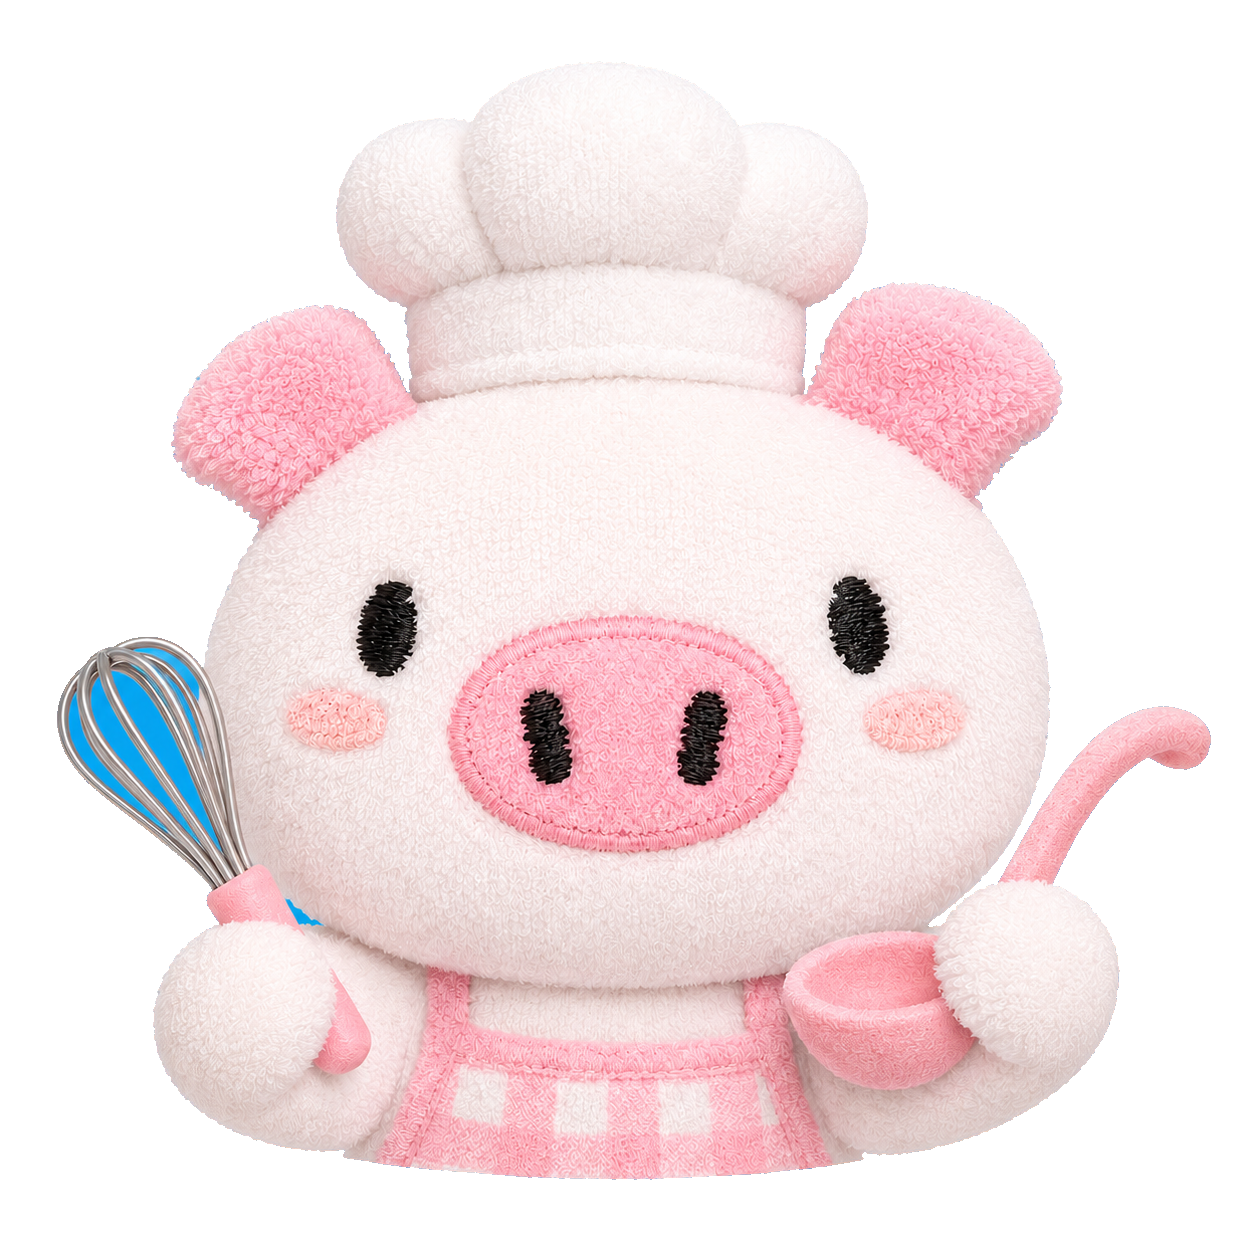
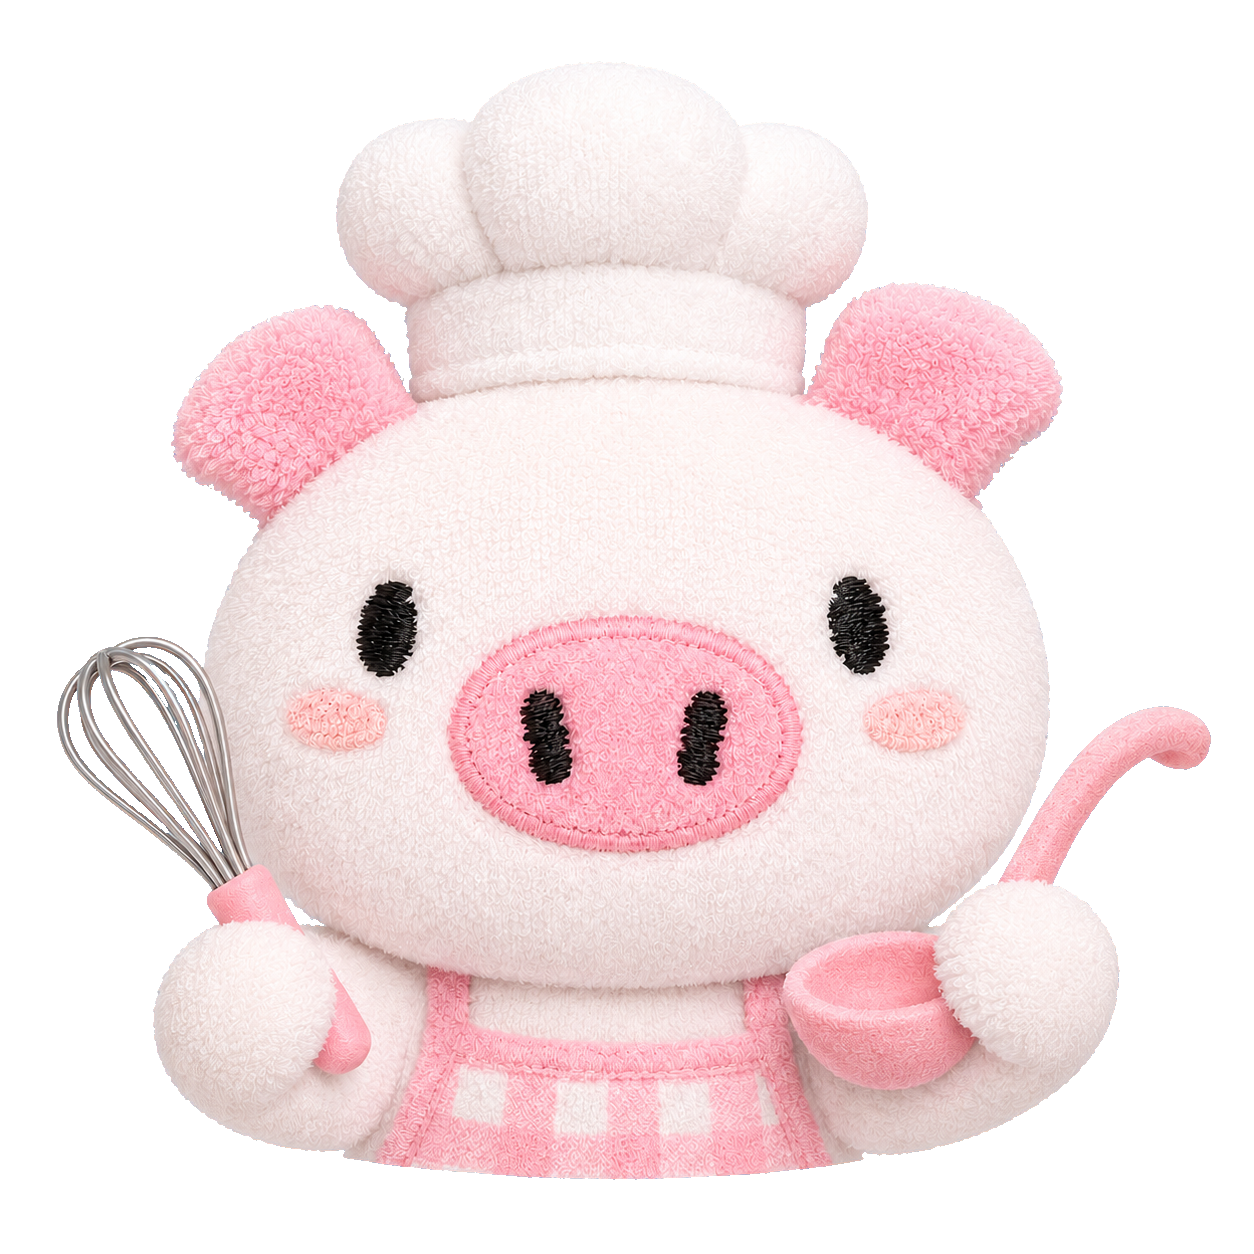
Clean staff chef tool background

Changed region(s): [[0.0311, 0.4976, 0.1866, 0.6842], [0.2177, 0.7153, 0.2488, 0.7464]]

diff --git a/index.html b/index.html
@@ -1040,7 +1040,7 @@
 
 <section id="staff" class="page-section">
   <main class="wrap">
-  <section class="hero"><div class="kicker">조리종사원 관리</div><h1>조리종사원</h1><p class="subtitle">조리종사원, 대체 조리종사원이 숙지해야 할 사항을 정리했습니다.</p><img loading="lazy" class="hero-asset" src="assets/images/page-kkul/page-kkul-staff-chef.png" alt=""></section>
+  <section class="hero"><div class="kicker">조리종사원 관리</div><h1>조리종사원</h1><p class="subtitle">조리종사원, 대체 조리종사원이 숙지해야 할 사항을 정리했습니다.</p><img loading="lazy" class="hero-asset" src="assets/images/page-kkul/page-kkul-staff-chef.png?v=20260701_chef_tool_cleanup" alt=""></section>
 
 <section class="card staff-accordion-card" id="new-substitute">
   <details class="staff-accordion">

diff --git a/service-worker.js b/service-worker.js
@@ -1,4 +1,4 @@
-const CACHE_NAME = 'kknutrition-pwa-v11';
+const CACHE_NAME = 'kknutrition-pwa-v12';
 
 self.addEventListener('install', (event) => {
   self.skipWaiting();